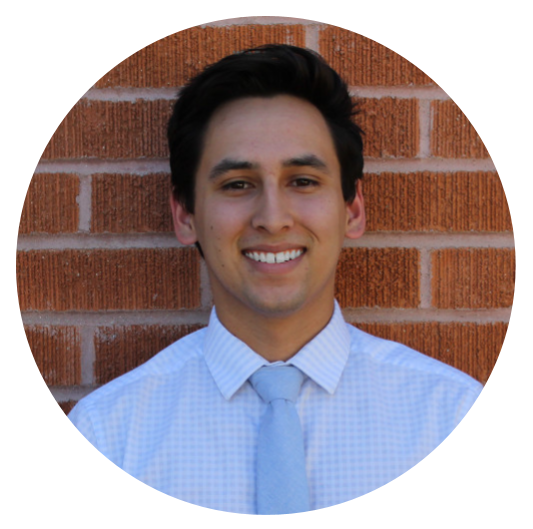
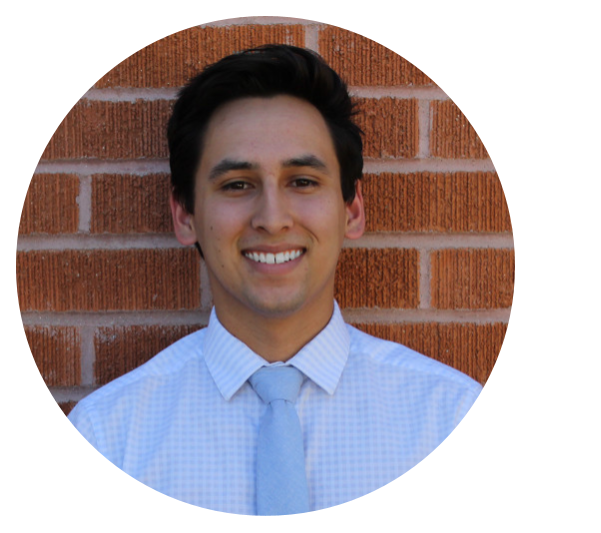
update style

diff --git a/assets/css/style.scss b/assets/css/style.scss
@@ -9,12 +9,12 @@ header {
 }
 
 section {
-  width: 800px;  /* Increased from 500px */
+  width: 1000px;  /* Increased from 500px */
   float: right;
 }
 
 .wrapper {
-  width: 1070px;  /* Total width: 220px + 580px + 60px padding */
+  width: 1400px;  /* Total width: 220px + 580px + 60px padding */
 }
 
 /* Custom Navigation Styles */
